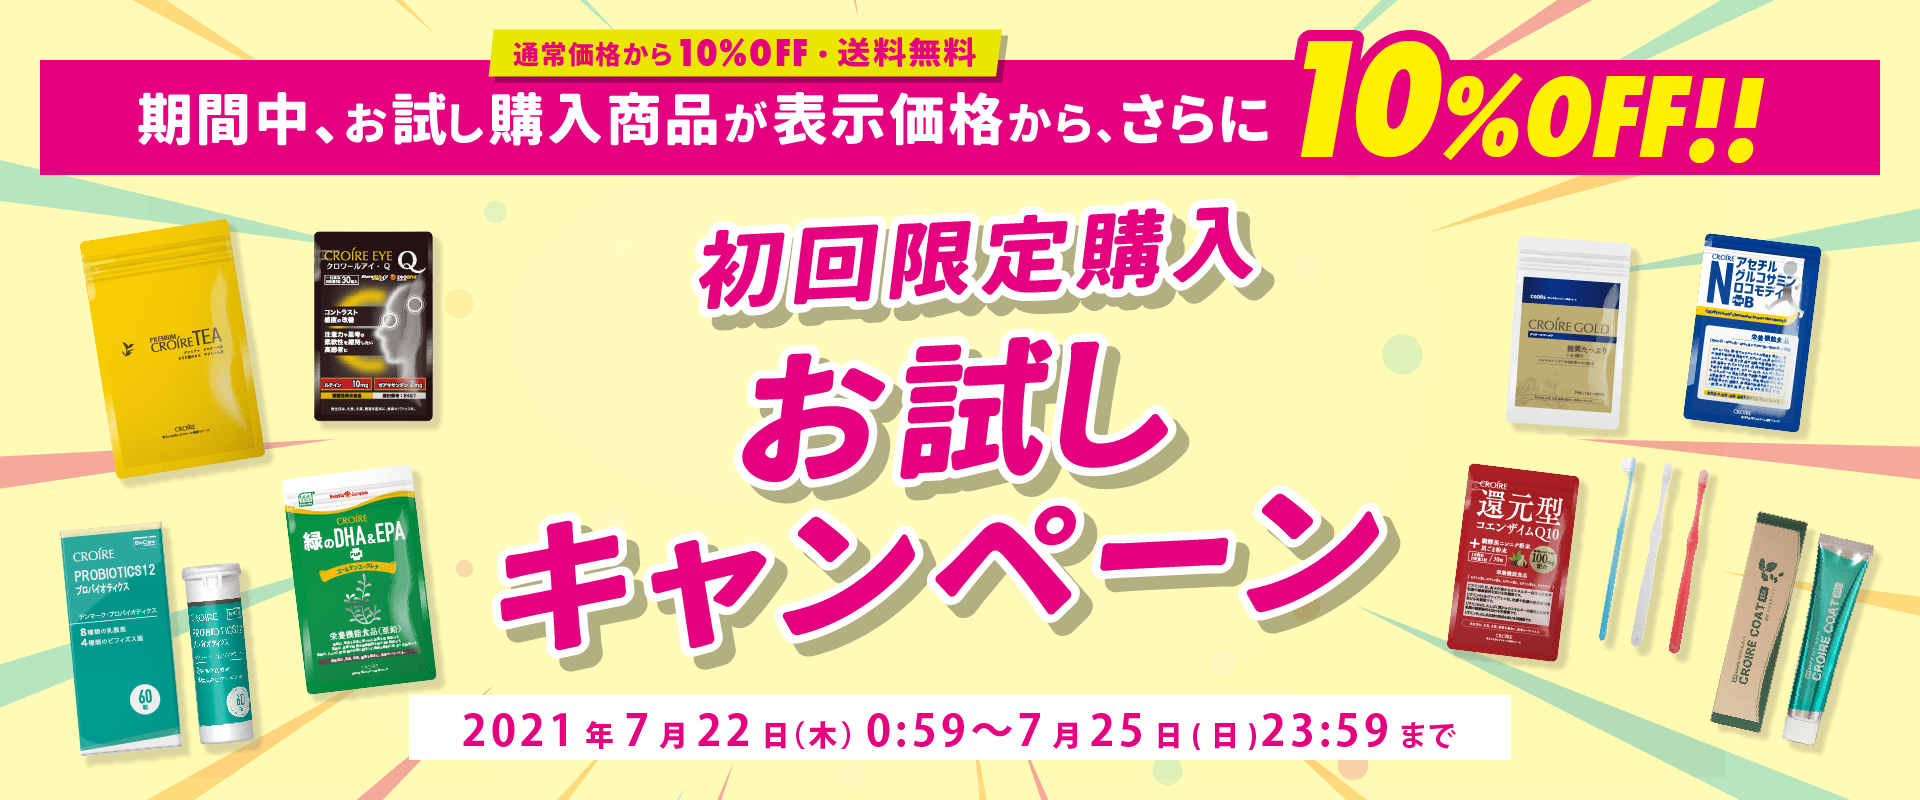
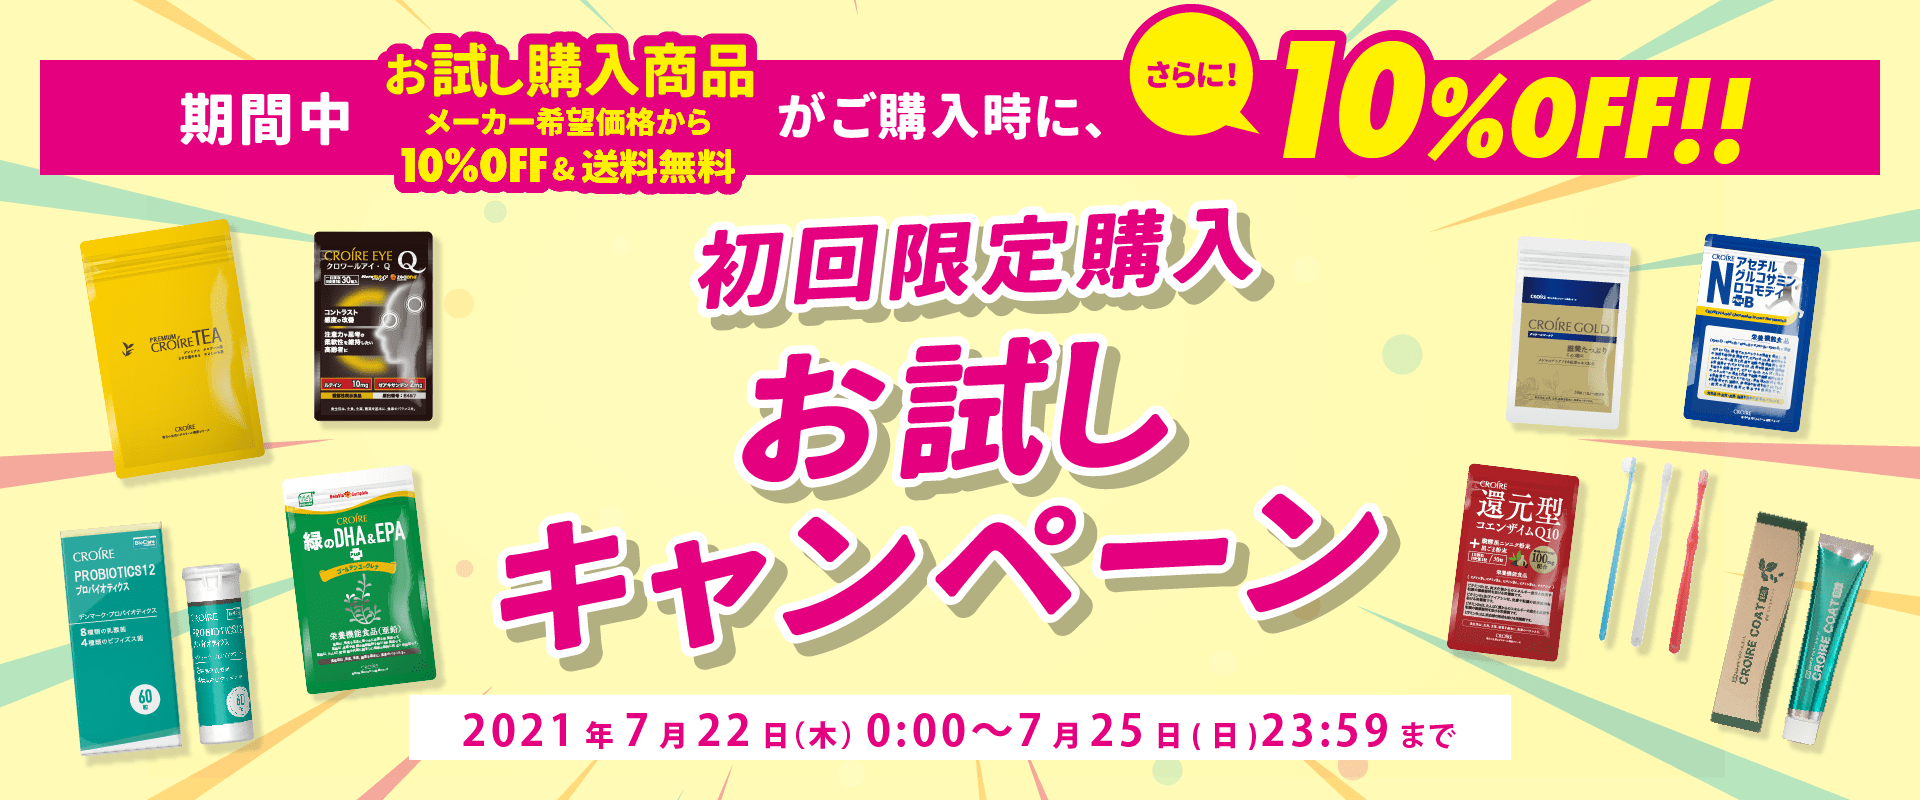
shuusei

diff --git a/croirecafe.com/testhtml/MG20210722.html b/croirecafe.com/testhtml/MG20210722.html
@@ -1,0 +1,148 @@
+<meta charset="utf-8">
+<div style="padding:15px;margin: 0 auto;max-width: 600px;font-family: sans-serif;font-size: 16px">
+	<p style="margin-top: 1em">
+	<a href="https://croirecafe.com/">
+	<img style="display: block;width: 100%;height: auto" src="https://croirecafe.com/img/bnr20210722/bnr02.png" alt=""></a>
+</p>
+
+
+<b>{name}　様</b>
+<p style="margin-top: 14px;font-family: sans-serif">いつもクロワール製品をご愛顧いただきありがとうございます。<br />
+2021年7月22(木)〜25日(日)の期間中、<br /><b>お試し購入商品(メーカー希望価格から10%OFF・送料無料)</b>が<br />
+ご購入時にさらに10％OFFとなるキャンペーンを実施中です！
+</p>
+
+
+<p style="margin-top: 1em;font-family: sans-serif;font-size: 0.8em">
+	※お試し購入商品は会員様のみ購入可能となります。<br />
+	※お試し購入商品は各商品とも、お1家族様1回のみ購入可能とさせていただきます。<br />
+	※過去にご購入いただいたお試し購入商品はご購入いただけませんのでご了承ください。
+	
+</p>
+
+
+<h2 align="center" style="background-color: #ff0000;color: #fff;padding: 5px">対象商品はこちら！</h2>
+
+
+<table width="600" style="font-family: sans-serif" >
+		<td valign="top" align="center" >
+			<a href="https://croirecafe.com/products/detail/56"><img src="https://croirecafe.com/product/img/croire.png" alt="gold" height="160" />
+			<p>
+				<b>
+					プレミアムクロワール茶<br />(25包)<br />
+					<span style="text-decoration: line-through">通常価格 2,786円(税込)</span><br />
+					<span style="text-decoration: line-through">お試し購入価格 2,507円(税込)</span><br />
+					<span>購入時さらに10%OFF!!<br /><b style="font-size: 1.5em">2,257</b>円(税込)</span></b>
+				<br />
+			</p>
+			<p style="font-size: .9em;margin-bottom: 30px;">20年以上のロングセラー<br />ルイボス茶・桑の葉茶<br />アフリカ紅茶・イペ茶<br />4種の茶葉をブレンドした<br />プレミアムなおいしさ</p></a>
+		</td>
+		<td valign="top" align="center" >
+			<a href="https://croirecafe.com/products/detail/58"><img src="https://croirecafe.com/html/upload/save_image/0109225805_5e17316d9d91e.png" alt="gold" height="160" />
+				<p>
+					<b>クロワールプロバイオティクス12<br />(60粒・約2ヶ月分)<br />
+						<span style="text-decoration: line-through">通常価格 5,554円(税込)</span><br />
+						<span style="text-decoration: line-through">お試し購入価格 4,998円(税込)</span><br />
+						<span>購入時さらに10%OFF!!<br /><b style="font-size: 1.5em">4,499</b>円(税込)</span></b>
+					</b>
+					
+				</p>
+			<p style="font-size: .9em;margin-bottom: 30px;">大腸と小腸のサプリメントが1粒に！<br />8種類の乳酸菌と<br />4種類のビフィズス菌、<br />全12種類100億個以上の生菌をカプセリング！</p></a>
+
+		</td>
+	</tr>
+	
+	<tr>
+		<td valign="top" align="center" >
+			<a href="https://croirecafe.com/products/detail/87"><img src="https://croirecafe.com/html/upload/save_image/0318133512_5e71a5004a5a3.png" alt="gold" height="160" />
+				<p><b>クロワールアイ・Q<br />(30粒・約1ヶ月分)<br />
+					<span style="text-decoration: line-through">通常価格 3,980円(税込)</span><br />
+					<span style="text-decoration: line-through">お試し購入価格 3,582円(税込)</span><br />
+					<span>購入時さらに10%OFF!!<br /><b style="font-size: 1.5em">3,224</b>円(税込)</span></b>
+				</p>
+			<p style="font-size: .9em;margin-bottom: 30px;">目と脳<br />２つの機能性を持つ<br />機能性表示食品</p></a>
+
+		</td>
+		<td valign="top" align="center" >
+			<a href="https://croirecafe.com/products/detail/26"><img src="https://croirecafe.com/html/upload/save_image/0520110505_5ce20b51e87c5.png" alt="gold" height="160" />
+			<p>
+				<b>緑のDHA&EPA+ゴールデンユーグレナ<br />(90粒・約1ヶ月分)<br />
+				<span style="text-decoration: line-through">通常価格 2,700円(税込)</span><br />
+				<span style="text-decoration: line-through">お試し購入価格 2,430円(税込)</span><br />
+				<span>購入時さらに10%OFF!!<br /><b style="font-size: 1.5em">2,187</b>円(税込)</span></b>
+			<p style="font-size: .9em;margin-bottom: 30px;">時代は魚由来から植物性へ<br />“ユーグレナ”配合でバージョンアップ！！<br />オメガ3・オメガ9も含有</p></a>
+		</td>
+	</tr>
+	
+	
+	<tr>
+		<td valign="top" align="center" >
+			<a href="https://croirecafe.com/products/detail/29"><img src="https://croirecafe.com/html/upload/save_image/0830100425_5d687619a9e79.png" alt="gold" height="160" />
+			<p>
+				<b>Nアセチルグルコサミンロコモディ+B<br />(90粒・約1ヶ月分)<br />
+				<span style="text-decoration: line-through">通常価格 3,780円(税込)</span><br />
+				<span style="text-decoration: line-through">お試し購入価格 3,402円(税込)</span><br />
+				<span>購入時さらに10%OFF!!<br /><b style="font-size: 1.5em">3,062</b>円(税込)</span></b>
+			</p>
+			<p style="font-size: .9em;margin-bottom: 30px;">膝や肘など関節痛でお悩みの方、<br />スポーツなど毎日を<br />アクティブに過ごしたい方に！</p></a>
+		</td>
+		<td valign="top" align="center" >
+			<a href="https://croirecafe.com/products/detail/25"><img src="https://croirecafe.com/html/upload/save_image/0528181409_5ecf80e1836f4.png" alt="gold" height="160" />
+			<p>
+				<b>クロワールゴールド<br />(30粒)<br />
+				<span style="text-decoration: line-through">通常価格 3,456円(税込)</span><br />
+				<span style="text-decoration: line-through">お試し購入価格 3,110円(税込)</span><br />
+				<span>購入時さらに10%OFF!!<br /><b style="font-size: 1.5em">2,799</b>円(税込)</span></b>
+			</p>
+			<p style="font-size: .9em;margin-bottom: 30px;">シリーズ最高の抗酸化力を持つ<br />滋養強壮サプリメント<br />免疫力アップで元気ハツラツ</p>
+			</a>
+		</td>
+	</tr>
+
+	<tr>
+		<td valign="top" align="center" >
+			<a href="https://croirecafe.com/products/detail/34"><img src="https://croirecafe.com/html/upload/save_image/0520105911_5ce209efa3cfb.png" alt="gold" height="160" />
+			<p>
+				<b>クロワール 還元型コエンザイムQ10<br />(30粒・約1ヶ月分)<br />
+				<span style="text-decoration: line-through">通常価格 3,402円(税込)</span><br />
+				<span style="text-decoration: line-through">お試し購入価格 3,061円(税込)</span><br />
+				<span>購入時さらに10%OFF!!<br /><b style="font-size: 1.5em">2,755</b>円(税込)</span></b>
+			</p>
+			<p style="font-size: .9em;margin-bottom: 30px;">還元型なので吸収力が違う！<br />元気へ届く吸収と効率<br />そしてエネルギー生産を引き出す配合</p></a>
+		</td>
+		<td valign="top" align="center" >
+			<a href="https://croirecafe.com/products/detail/20"><img src="https://croirecafe.com/html/upload/save_image/0731232936_5d41a5d0b8c61.png" alt="gold" height="160" />
+			<p>
+				<b>魔法のワハハ歯ブラシ<br />（3本セット）<br />
+				<span style="text-decoration: line-through">通常価格 1,650円(税込)</span><br />
+				<span style="text-decoration: line-through">お試し購入価格 1,485円(税込)</span><br />
+				<span>購入時さらに10%OFF!!<br /><b style="font-size: 1.5em">1,337</b>円(税込)</span></b>
+			</p>
+			<p style="font-size: .9em;margin-bottom: 30px;">歯の専門家、歯科医自ら考案<br />磨き残しゼロを目指した歯ブラシ</p></a>
+		</td>
+	</tr>
+	
+	<tr>
+		<td valign="top" align="center" >
+			<a href="https://croirecafe.com/products/detail/42"><img src="https://croirecafe.com/html/upload/save_image/0429122301_608a2695004af.jpg" alt="gold" height="160" />
+			<p>
+				<b>クロワールコート 65g<br />
+				<span style="text-decoration: line-through">通常価格 3,850円(税込)</span><br />
+				<span style="text-decoration: line-through">お試し購入価格 3,465円(税込)</span><br />
+				<span>購入時さらに10%OFF!!<br /><b style="font-size: 1.5em"></b>3,119円(税込)</span></b>
+				
+			</p>
+			<p style="font-size: .9em;margin-bottom: 30px;">歯周病予防に！<br />発泡剤・研磨剤不使用で<br />歯の表面を傷つけません</p></a>
+		</td>
+	</tr>
+
+
+</table>
+
+<p style="text-align: center;">
+	<a href="https://croirecafe.com/">
+		クロワール公式通販サイトはこちら<br /><br />
+
+		<img style="display: block;width: 100%;height: auto" src="https://croirecafe.com/img/mail/asset.jpg" width="400" height="" alt="" /></a>
+</p>
+

diff --git a/croirecafe.com/common/js/user.js b/croirecafe.com/common/js/user.js
@@ -20,7 +20,7 @@ function getNowYMDStr(){
 /* !! セール期間判別 */
 var today = getNowYMDStr();
 
-var today = 20210722;
+//var today = 20210722;
 
 function is_sale(){
 	var start = 20210722;

diff --git a/croirecafe.com/html/upload/save_image/main.scss b/croirecafe.com/html/upload/save_image/main.scss
@@ -1,0 +1,7 @@
+@charset "UTF-8";
+
+//@import "compass/reset";
+//@import "compass";
+@import "base";
+@import "pc";
+@import "sp";
